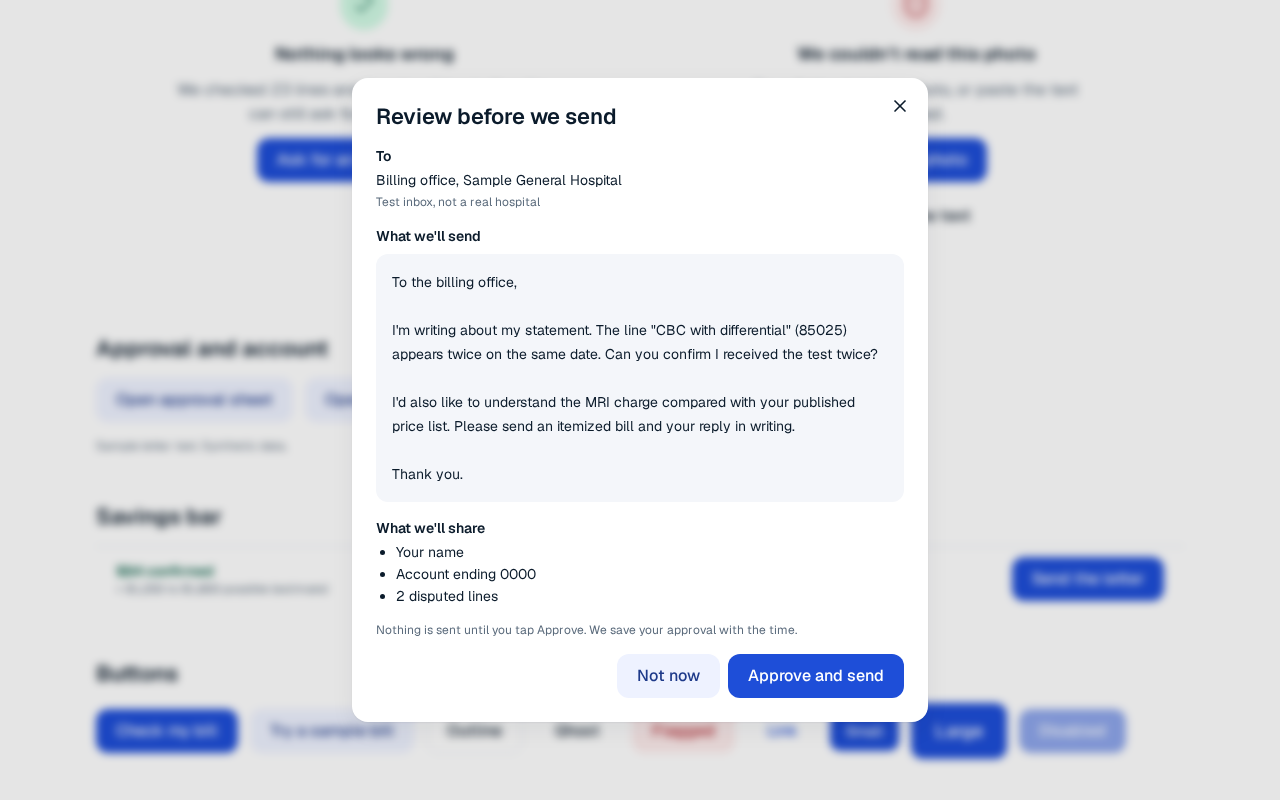
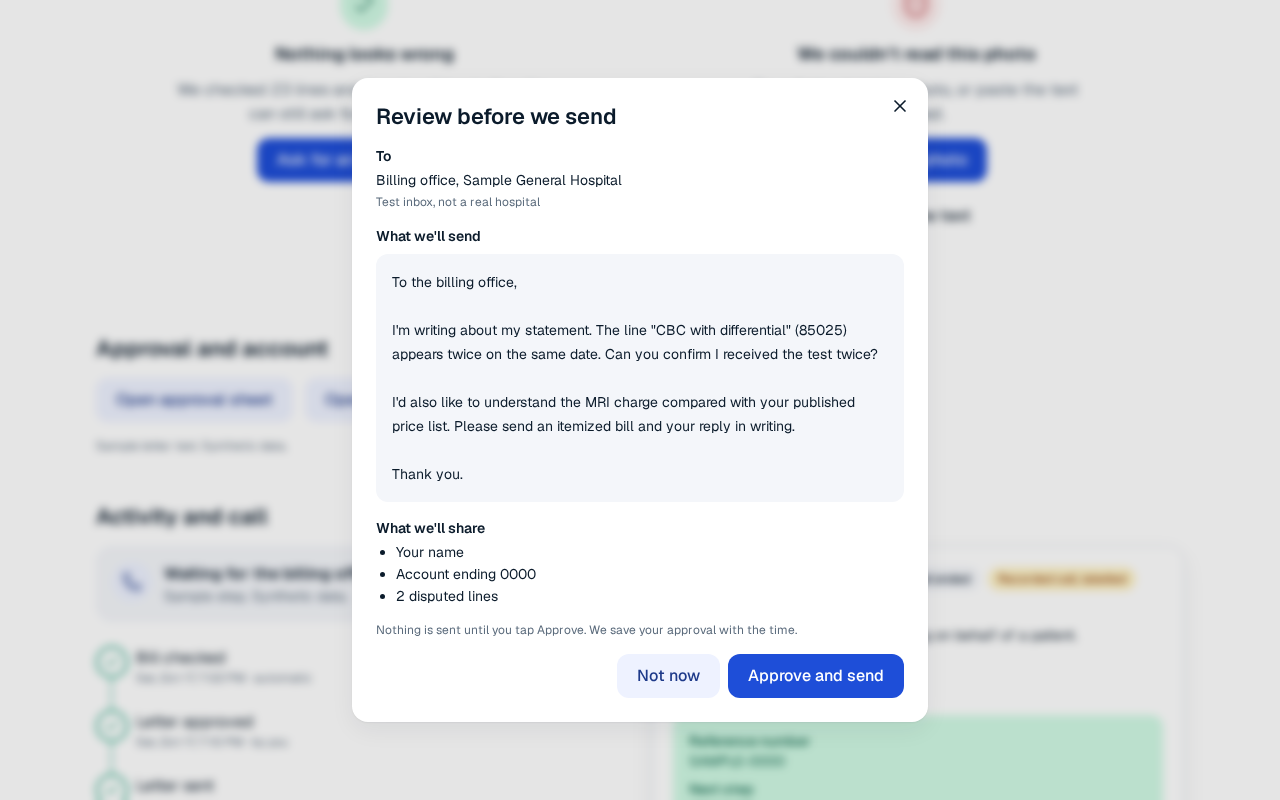
feat(ui): ActivityTimeline and CallTranscriptCard (D-12)

diff --git a/apps/web/src/routes/case/$id/activity.tsx b/apps/web/src/routes/case/$id/activity.tsx
@@ -1,11 +1,104 @@
+import { ActivityTimeline } from "@betterbill/ui/components/bb/activity-timeline";
+import { CallTranscriptCard } from "@betterbill/ui/components/bb/call-transcript-card";
+import { useQuery } from "@tanstack/react-query";
 import { createFileRoute } from "@tanstack/react-router";
 
+import { AppBar } from "@/components/app-bar";
+import { orpc } from "@/utils/orpc";
+
 export const Route = createFileRoute("/case/$id/activity")({
-  component: () => (
-    <main className="mx-auto max-w-6xl px-5 py-10 md:px-8">
-      <h1 className="font-semibold text-[28px] leading-[34px] tracking-[-0.01em]">
-        Your case activity
-      </h1>
-    </main>
-  ),
+  head: () => ({
+    meta: [
+      { title: "Your case activity, BetterBill" },
+      { name: "robots", content: "noindex" },
+    ],
+  }),
+  component: ActivityPage,
 });
+
+// A owns the transcript format. Until A defines turns, only lines that start
+// with "agent:" or "billing:" are shown as turns.
+function parseTurns(transcript: string | null) {
+  if (!transcript) return [];
+  return transcript.split("\n").flatMap((line) => {
+    const match = /^(agent|billing):\s*(.+)$/i.exec(line.trim());
+    return match
+      ? [
+          {
+            speaker: match[1].toLowerCase() as "agent" | "billing",
+            text: match[2],
+          },
+        ]
+      : [];
+  });
+}
+
+function ActivityPage() {
+  const { id } = Route.useParams();
+  const events = useQuery(
+    orpc.event.list.queryOptions({ input: { caseId: id } }),
+  );
+  const detail = useQuery(
+    orpc.case.get.queryOptions({ input: { caseId: id } }),
+  );
+  const callAction = detail.data?.actions.find((a) => a.kind === "call");
+  const call = useQuery({
+    ...orpc.call.status.queryOptions({
+      input: { callId: `call-${callAction?.id ?? ""}` },
+    }),
+    enabled: Boolean(callAction),
+  });
+
+  const pending = detail.data?.actions.find(
+    (a) => a.approvedAt !== null && a.outcome === null,
+  );
+  const turns = parseTurns(call.data?.transcript ?? null);
+
+  return (
+    <>
+      <AppBar title="Activity" back={`/case/${id}`} />
+      <main className="mx-auto max-w-2xl space-y-6 px-5 py-6 md:px-8">
+        <h1 className="font-semibold text-[28px] leading-[34px] tracking-[-0.01em] lg:text-[36px] lg:leading-[42px]">
+          Your case activity
+        </h1>
+        {events.isLoading ? (
+          <p className="text-muted-foreground">Loading activity</p>
+        ) : (
+          <ActivityTimeline
+            current={
+              pending
+                ? {
+                    title:
+                      pending.kind === "call"
+                        ? "Waiting for the billing office"
+                        : "Waiting for a reply",
+                    detail: `To ${pending.recipient}`,
+                    icon: pending.kind === "call" ? "phone" : "mail",
+                  }
+                : undefined
+            }
+            events={(events.data ?? []).map((e) => ({
+              id: e.id,
+              at: e.at,
+              summary: e.summary,
+              actor: e.actor,
+              done: true,
+            }))}
+          />
+        )}
+        {callAction && turns.length > 0 ? (
+          <CallTranscriptCard
+            status={call.data?.outcome ? "ended" : "in_progress"}
+            turns={turns}
+            outcome={
+              call.data?.outcome ? { nextStep: call.data.outcome } : undefined
+            }
+          />
+        ) : null}
+        <p className="pb-6 text-center text-muted-foreground text-xs leading-4">
+          BetterBill is informational, not legal or medical advice.
+        </p>
+      </main>
+    </>
+  );
+}

diff --git a/packages/ui/src/components/bb/activity-timeline.tsx b/packages/ui/src/components/bb/activity-timeline.tsx
@@ -1,0 +1,90 @@
+import { cn } from "@betterbill/ui/lib/utils";
+import { Check, FileText, Mail, Phone } from "lucide-react";
+
+type TimelineEvent = {
+  id: string;
+  at: string;
+  summary: string;
+  actor: "user" | "agent" | "system";
+  done: boolean;
+};
+
+type ActivityTimelineProps = {
+  current?: { title: string; detail: string; icon: "phone" | "mail" | "file" };
+  events: TimelineEvent[];
+  className?: string;
+};
+
+const ICONS = { phone: Phone, mail: Mail, file: FileText } as const;
+const ACTOR = { user: "by you", agent: "by BetterBill", system: "automatic" };
+
+const timeFormat = new Intl.DateTimeFormat("en-US", {
+  weekday: "short",
+  month: "short",
+  day: "numeric",
+  hour: "numeric",
+  minute: "2-digit",
+});
+
+export function ActivityTimeline({
+  current,
+  events,
+  className,
+}: ActivityTimelineProps) {
+  const CurrentIcon = current ? ICONS[current.icon] : null;
+  return (
+    <div className={cn("space-y-6", className)}>
+      {current && CurrentIcon ? (
+        <div className="flex gap-3 rounded-2xl bg-muted p-4">
+          <span className="flex size-10 shrink-0 items-center justify-center rounded-full bg-secondary text-secondary-foreground">
+            <CurrentIcon
+              className="size-5"
+              strokeWidth={1.75}
+              aria-hidden="true"
+            />
+          </span>
+          <div>
+            <p className="font-semibold text-base leading-6">{current.title}</p>
+            <p className="text-muted-foreground text-sm leading-5">
+              {current.detail}
+            </p>
+          </div>
+        </div>
+      ) : null}
+      <ol aria-label="Case activity" className="relative">
+        {events.map((event, index) => (
+          <li key={event.id} className="relative pb-6 pl-10 last:pb-0">
+            {index < events.length - 1 ? (
+              <span
+                className={cn(
+                  "absolute top-8 bottom-0 left-[15px] w-px",
+                  event.done ? "bg-mint" : "bg-border",
+                )}
+                aria-hidden="true"
+              />
+            ) : null}
+            {event.done ? (
+              <span className="absolute top-0 left-0 flex size-8 items-center justify-center rounded-full border-2 border-mint bg-background text-mint">
+                <Check className="size-4" strokeWidth={2} aria-hidden="true" />
+              </span>
+            ) : (
+              <span
+                className="absolute top-0 left-0 size-8 rounded-full border-2 border-border bg-background"
+                aria-hidden="true"
+              />
+            )}
+            <p className="text-base leading-6">
+              <span className="sr-only">
+                {event.done ? "Done: " : "Next: "}
+              </span>
+              {event.summary}
+            </p>
+            <p className="text-muted-foreground text-xs leading-4">
+              {timeFormat.format(new Date(event.at))} · {ACTOR[event.actor]}
+            </p>
+          </li>
+        ))}
+      </ol>
+    </div>
+  );
+}

diff --git a/packages/ui/src/components/bb/call-transcript-card.tsx b/packages/ui/src/components/bb/call-transcript-card.tsx
@@ -1,0 +1,86 @@
+import { cn } from "@betterbill/ui/lib/utils";
+
+type CallTranscriptCardProps = {
+  status: "ringing" | "in_progress" | "ended" | "failed";
+  recorded?: boolean;
+  turns: { speaker: "agent" | "billing"; text: string; at?: string }[];
+  outcome?: {
+    referenceNumber?: string;
+    nextStep?: string;
+    followUpBy?: string;
+  };
+  className?: string;
+};
+
+const STATUS = {
+  ringing: "Calling",
+  in_progress: "On the call",
+  ended: "Call ended",
+  failed: "Call didn't connect",
+} as const;
+
+const SPEAKER = { agent: "BetterBill assistant", billing: "Billing office" };
+
+export function CallTranscriptCard({
+  status,
+  recorded,
+  turns,
+  outcome,
+  className,
+}: CallTranscriptCardProps) {
+  const rows: [string, string | undefined][] = outcome
+    ? [
+        ["Reference number", outcome.referenceNumber],
+        ["Next step", outcome.nextStep],
+        ["Follow up by", outcome.followUpBy],
+      ]
+    : [];
+  return (
+    <section
+      aria-label="Call with the billing office"
+      className={cn(
+        "space-y-4 rounded-2xl border bg-card p-5 shadow-card",
+        className,
+      )}
+    >
+      <div className="flex flex-wrap items-center gap-2">
+        <h2 className="font-semibold text-lg leading-6">
+          Call with the billing office
+        </h2>
+        <span className="rounded-full bg-muted px-2.5 py-1 font-medium text-xs">
+          {STATUS[status]}
+        </span>
+        {recorded ? (
+          <span className="rounded-full bg-amber-soft px-2.5 py-1 font-medium text-amber-ink text-xs">
+            Recorded call, labelled
+          </span>
+        ) : null}
+      </div>
+      <div
+        className="space-y-3"
+        aria-live={status === "in_progress" ? "polite" : undefined}
+      >
+        {turns.map((turn, index) => (
+          <div key={`${turn.speaker}-${index}`}>
+            <p className="font-medium text-muted-foreground text-xs leading-4">
+              {SPEAKER[turn.speaker]}
+            </p>
+            <p className="text-sm leading-6">{turn.text}</p>
+          </div>
+        ))}
+      </div>
+      {outcome ? (
+        <dl className="space-y-2 rounded-xl bg-mint-soft p-4 text-mint-ink text-sm leading-5">
+          {rows.map(([label, value]) =>
+            value ? (
+              <div key={label}>
+                <dt className="font-medium">{label}</dt>
+                <dd>{value}</dd>
+              </div>
+            ) : null,
+          )}
+        </dl>
+      ) : null}
+    </section>
+  );
+}

diff --git a/apps/web/src/routes/design.tsx b/apps/web/src/routes/design.tsx
@@ -1,7 +1,9 @@
 import { Badge } from "@betterbill/ui/components/badge";
 import { AccountPrompt } from "@betterbill/ui/components/bb/account-prompt";
+import { ActivityTimeline } from "@betterbill/ui/components/bb/activity-timeline";
 import { ApprovalSheet } from "@betterbill/ui/components/bb/approval-sheet";
 import { BalanceCard } from "@betterbill/ui/components/bb/balance-card";
+import { CallTranscriptCard } from "@betterbill/ui/components/bb/call-transcript-card";
 import {
   ComparePending,
   ComparePriceBar,
@@ -292,6 +294,64 @@ function DesignPage() {
           onCreate={() => setAccountOpen(false)}
           onSignIn={() => setAccountOpen(false)}
         />
+      </Section>
+
+      <Section title="Activity and call">
+        <div className="grid gap-6 md:grid-cols-2">
+          <ActivityTimeline
+            current={{
+              title: "Waiting for the billing office",
+              detail: "Sample step. Synthetic data.",
+              icon: "phone",
+            }}
+            events={[
+              {
+                id: "e1",
+                at: "2026-10-17T23:02:00.000Z",
+                summary: "Bill checked",
+                actor: "system",
+                done: true,
+              },
+              {
+                id: "e2",
+                at: "2026-10-17T23:10:00.000Z",
+                summary: "Letter approved",
+                actor: "user",
+                done: true,
+              },
+              {
+                id: "e3",
+                at: "2026-10-17T23:11:00.000Z",
+                summary: "Letter sent",
+                actor: "agent",
+                done: true,
+              },
+              {
+                id: "e4",
+                at: "2026-10-18T16:00:00.000Z",
+                summary: "Reply received",
+                actor: "system",
+                done: false,
+              },
+            ]}
+          />
+          <CallTranscriptCard
+            status="ended"
+            recorded
+            turns={[
+              {
+                speaker: "agent",
+                text: "Hi, this is an automated assistant calling on behalf of a patient.",
+              },
+              { speaker: "billing", text: "Sample reply. Synthetic data." },
+            ]}
+            outcome={{
+              referenceNumber: "SAMPLE-0000",
+              nextStep: "Sample next step",
+              followUpBy: "Sample date",
+            }}
+          />
+        </div>
       </Section>
 
       <Section title="Savings bar">

diff --git a/e2e/activity.spec.ts b/e2e/activity.spec.ts
@@ -1,0 +1,25 @@
+import { expect, test } from "@playwright/test";
+
+import { expectNoA11yViolations } from "./a11y";
+
+test("activity timeline lists done events with spoken state", async ({
+  page,
+}, testInfo) => {
+  await page.goto("/case/case-demo/activity");
+  await expect(
+    page.getByRole("heading", { name: "Your case activity" }),
+  ).toBeVisible();
+  const list = page.getByRole("list", { name: "Case activity" });
+  await expect(list.getByText("Done:").first()).toBeAttached();
+  await expect(list.getByRole("listitem")).toHaveCount(2);
+  await expectNoA11yViolations(page);
+  await page.screenshot({
+    path: `design/screens/activity-${testInfo.project.name}.png`,
+  });
+});
+
+test("call transcript card shows the outcome", async ({ page }) => {
+  await page.goto("/design", { waitUntil: "networkidle" });
+  await expect(page.getByText("Reference number")).toBeVisible();
+  await expect(page.getByText("Recorded call, labelled")).toBeVisible();
+});
